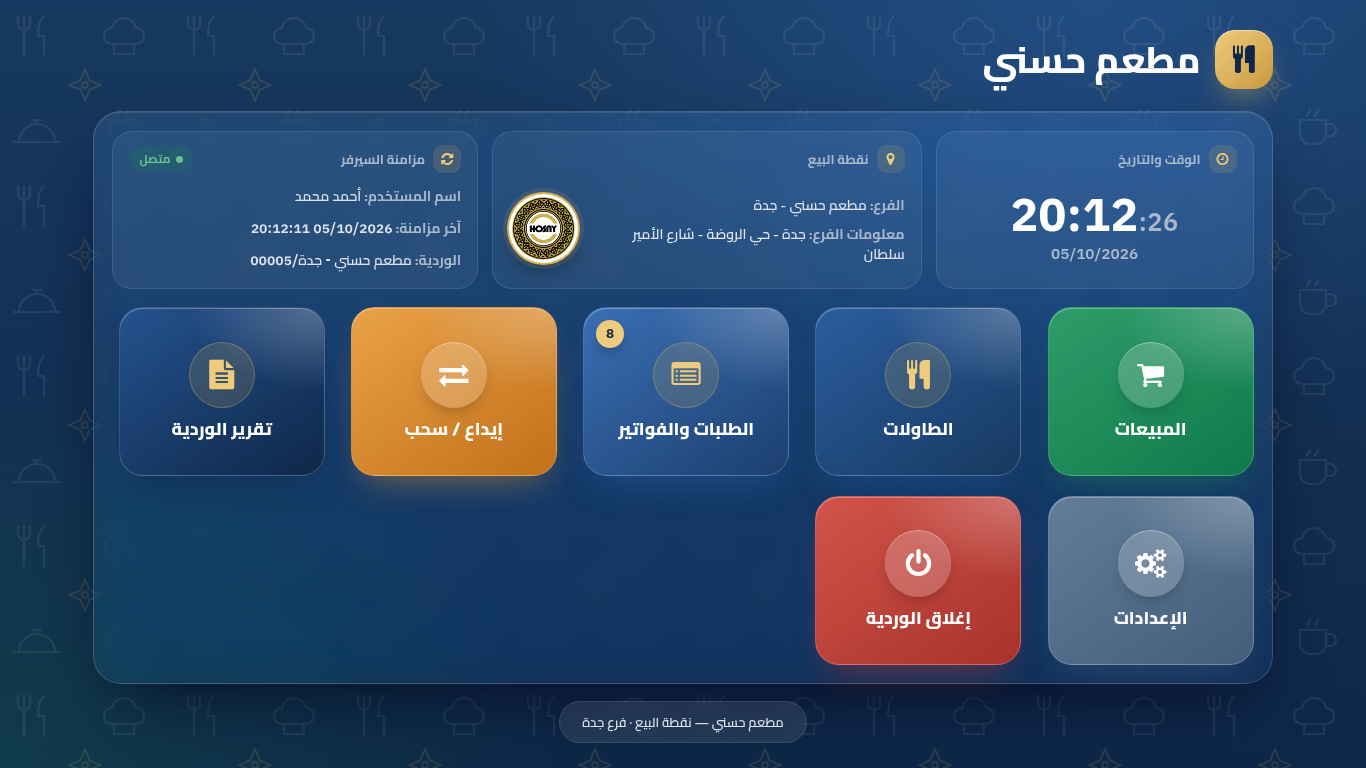
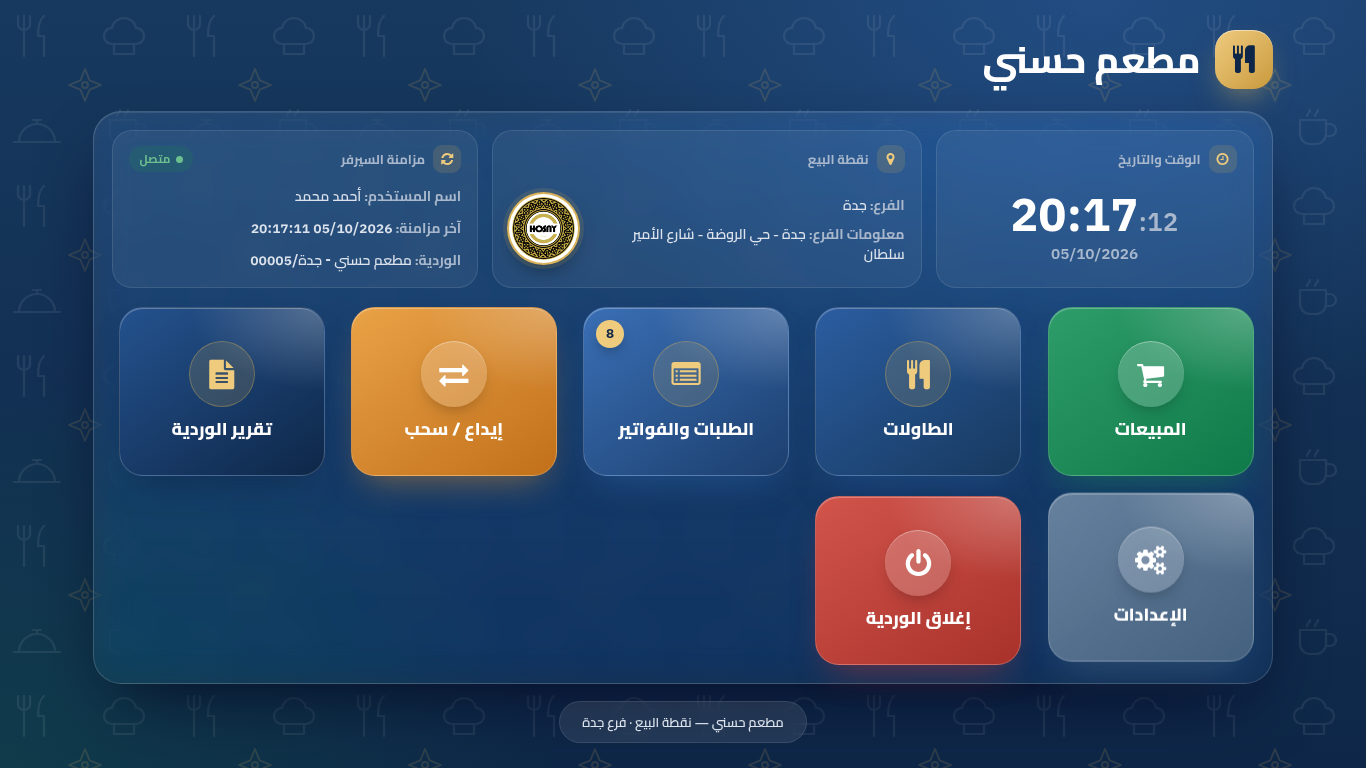
POS home: branch name only, settings button opens POS settings
- Branch box shows just the branch ("جدة") instead of the full
  point-of-sale name with the restaurant name repeated.
- "الإعدادات" no longer leaves the till for the POS dashboard: it opens
  Point of Sale settings in a new tab, preselected on this point of
  sale. New act_window action_pos_settings_current carries
  active_model=pos.config, and the button opens
  /odoo/<config_id>/action-hosny_pos_home.action_pos_settings_current
  so res.config.settings._default_pos_config picks this config instead
  of the last modified one. Bump to 19.0.1.1.0 (new data file).

Claude-Session: https://claude.ai/code/session_01Lnz3E3QEWwCq9W3i1o8rQR

diff --git a/addons/hosny_pos_home/static/src/js/home_screen.js b/addons/hosny_pos_home/static/src/js/home_screen.js
@@ -182,7 +182,7 @@ export class HosnyHomeScreen extends Component {
         }
         tiles.push({ key: "report", tone: "deep", icon: "fa-file-text", title: "تقرير الوردية", run: () => this.openReport() });
         if (this.isManager) {
-            tiles.push({ key: "backend", tone: "slate", icon: "fa-cogs", title: "الإعدادات", run: () => pos.closePos() });
+            tiles.push({ key: "backend", tone: "slate", icon: "fa-cogs", title: "الإعدادات", run: () => this.openSettings() });
         }
         tiles.push({ key: "close", tone: "red", icon: "fa-power-off", title: "إغلاق الوردية", run: () => pos.closeSession() });
         return tiles;
@@ -195,6 +195,13 @@ export class HosnyHomeScreen extends Component {
     openTables() {
         this.pos.currentFloor = dineInFloors(this.pos)[0] || this.pos.currentFloor;
         this.pos.navigate("FloorScreen");
+    }
+    /**
+     * إعدادات نقطة البيع في تبويب جديد، على نقطة البيع هذه (انظر
+     * views/pos_settings_action.xml)؛ الكاشير يبقى مفتوحاً في تبويبه.
+     */
+    openSettings() {
+        window.open(`/odoo/${this.pos.config.id}/action-hosny_pos_home.action_pos_settings_current`, "_blank");
     }
     async openReport() {
         await this.loadSummary();

diff --git a/addons/hosny_pos_home/__manifest__.py b/addons/hosny_pos_home/__manifest__.py
@@ -1,6 +1,6 @@
 {
     'name': 'Hosny POS Home',
-    'version': '19.0.1.0.0',
+    'version': '19.0.1.1.0',
     'category': 'Point of Sale',
     'summary': 'الشاشة الرئيسية لنقطة البيع على طريقة FERP: الوقت، الفرع، المزامنة والأزرار',
     'description': """
@@ -15,6 +15,9 @@
 """,
     'author': 'Hosny',
     'depends': ['point_of_sale', 'pos_restaurant', 'pos_entry_selector', 'hosny_pos_skin'],
+    'data': [
+        'views/pos_settings_action.xml',
+    ],
     'assets': {
         'point_of_sale._assets_pos': [
             'hosny_pos_home/static/src/js/home_screen.js',
